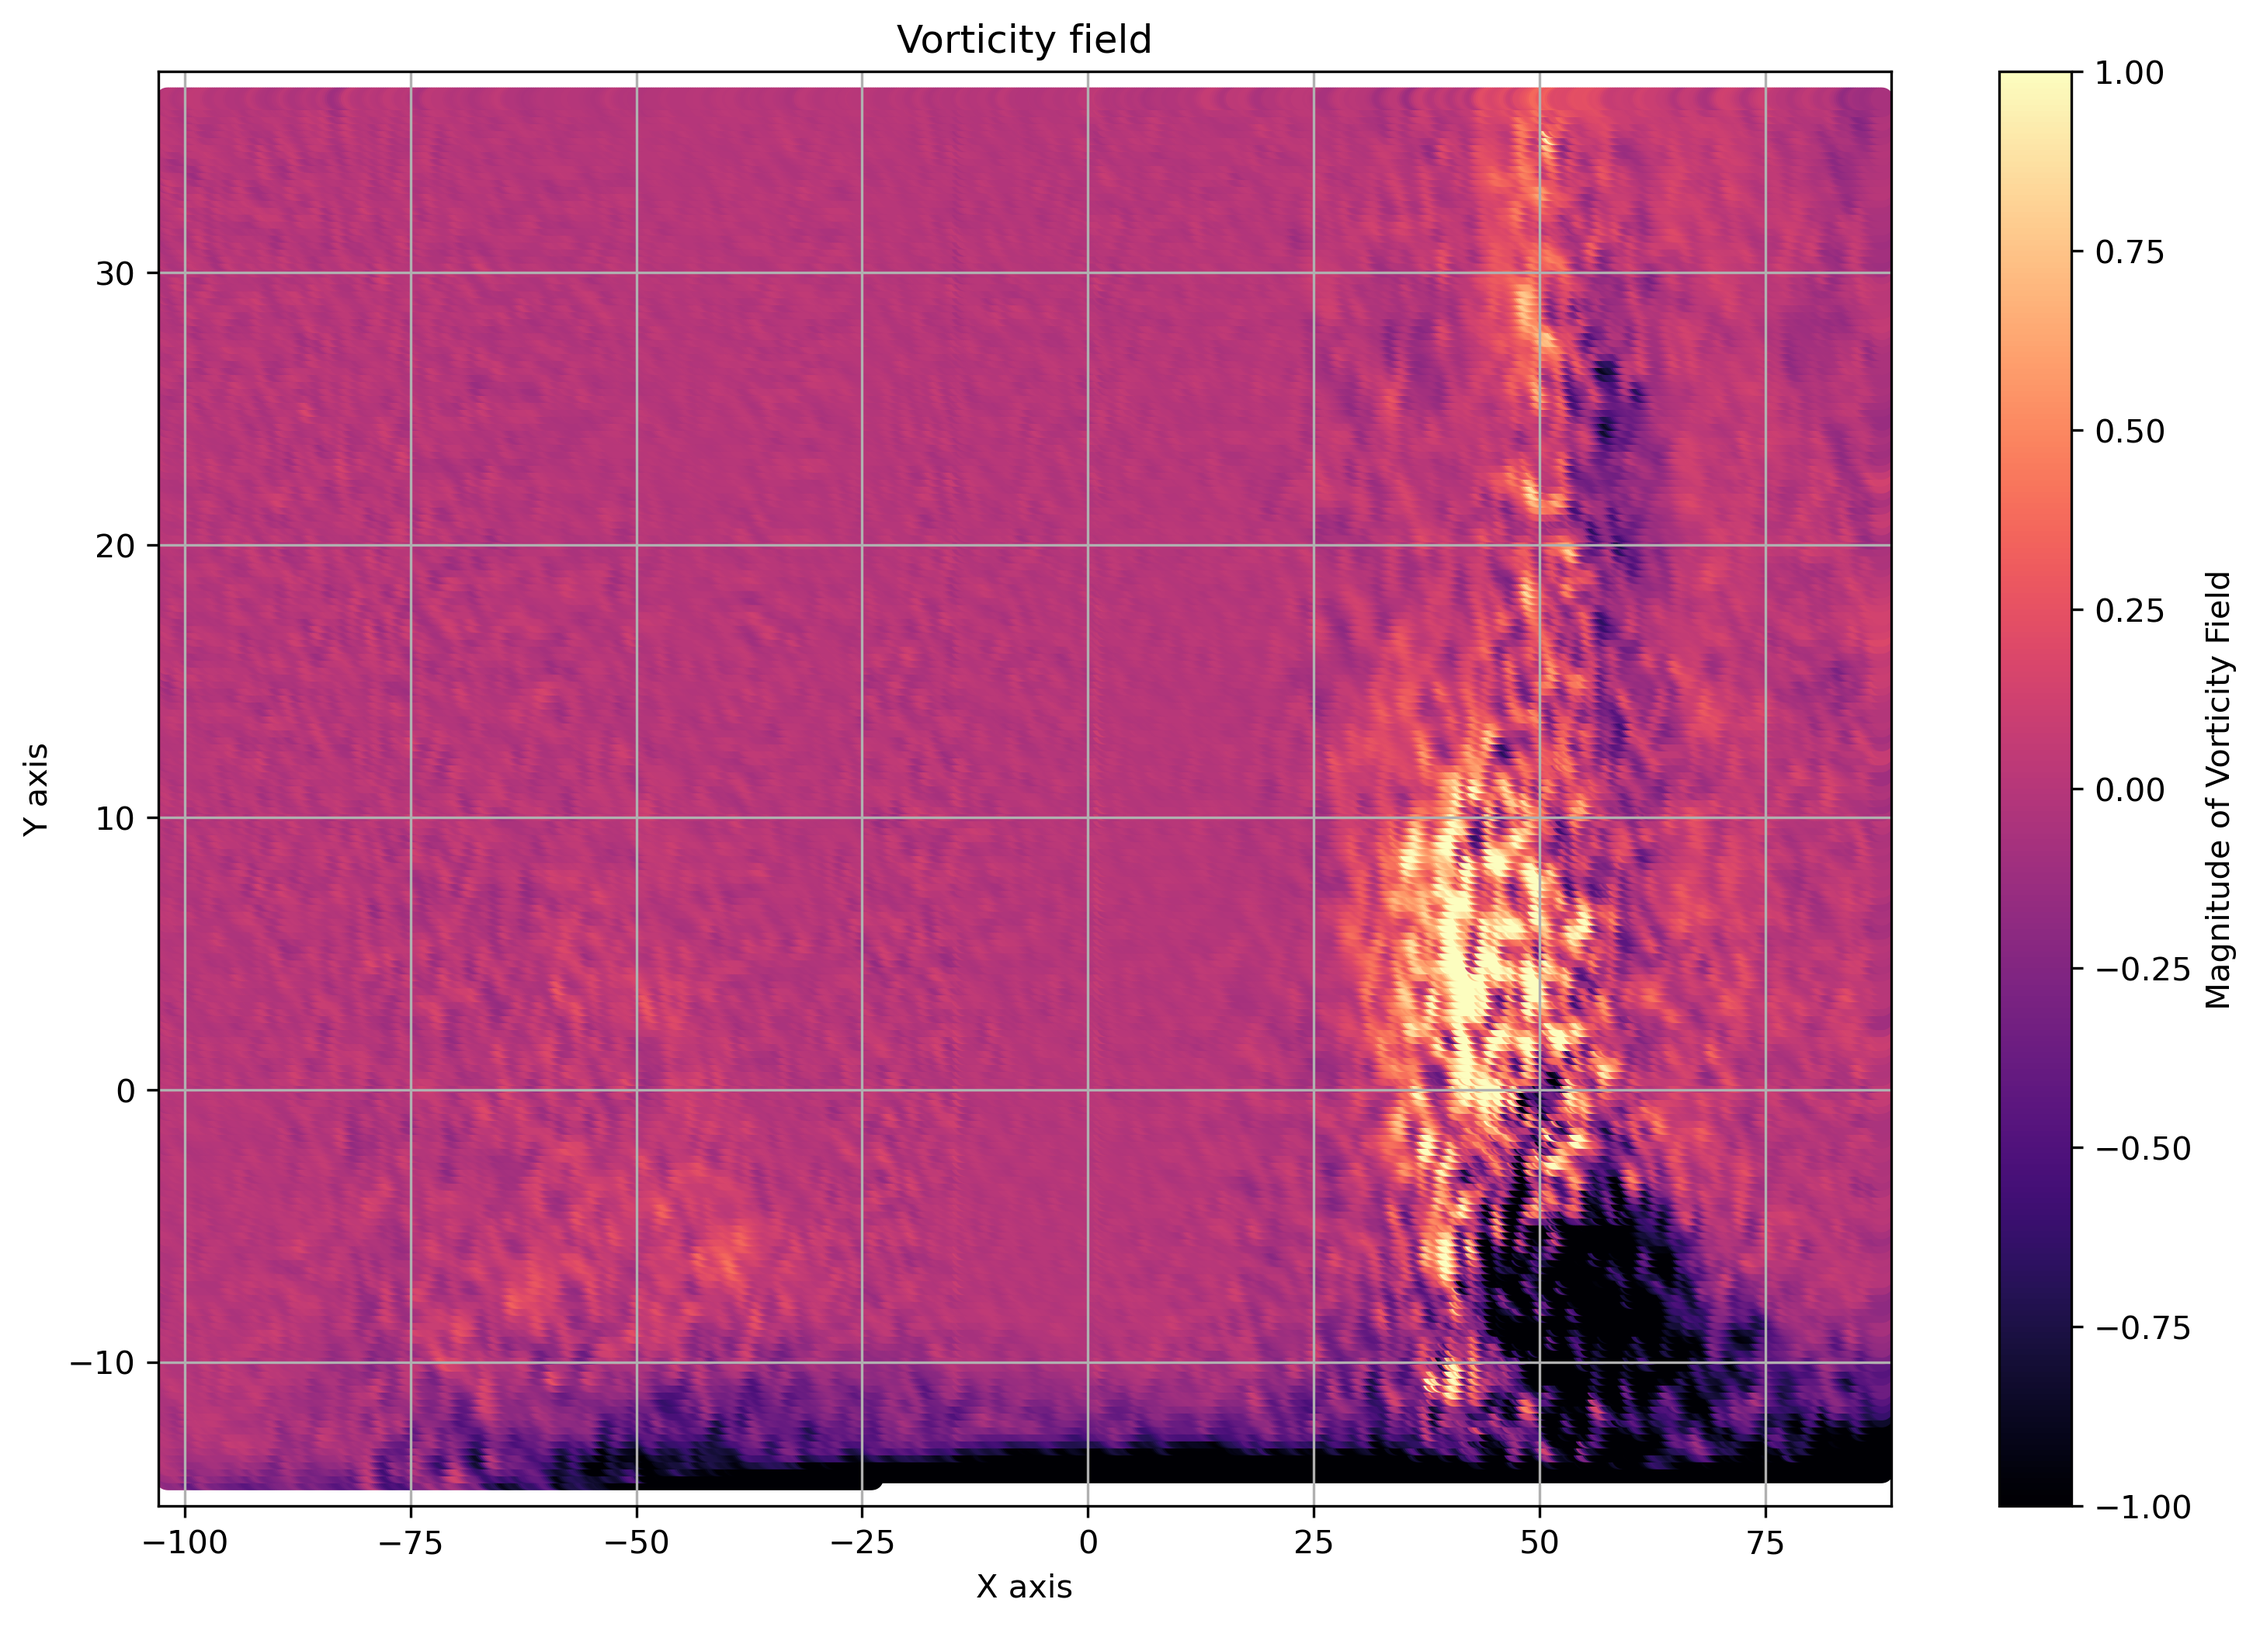
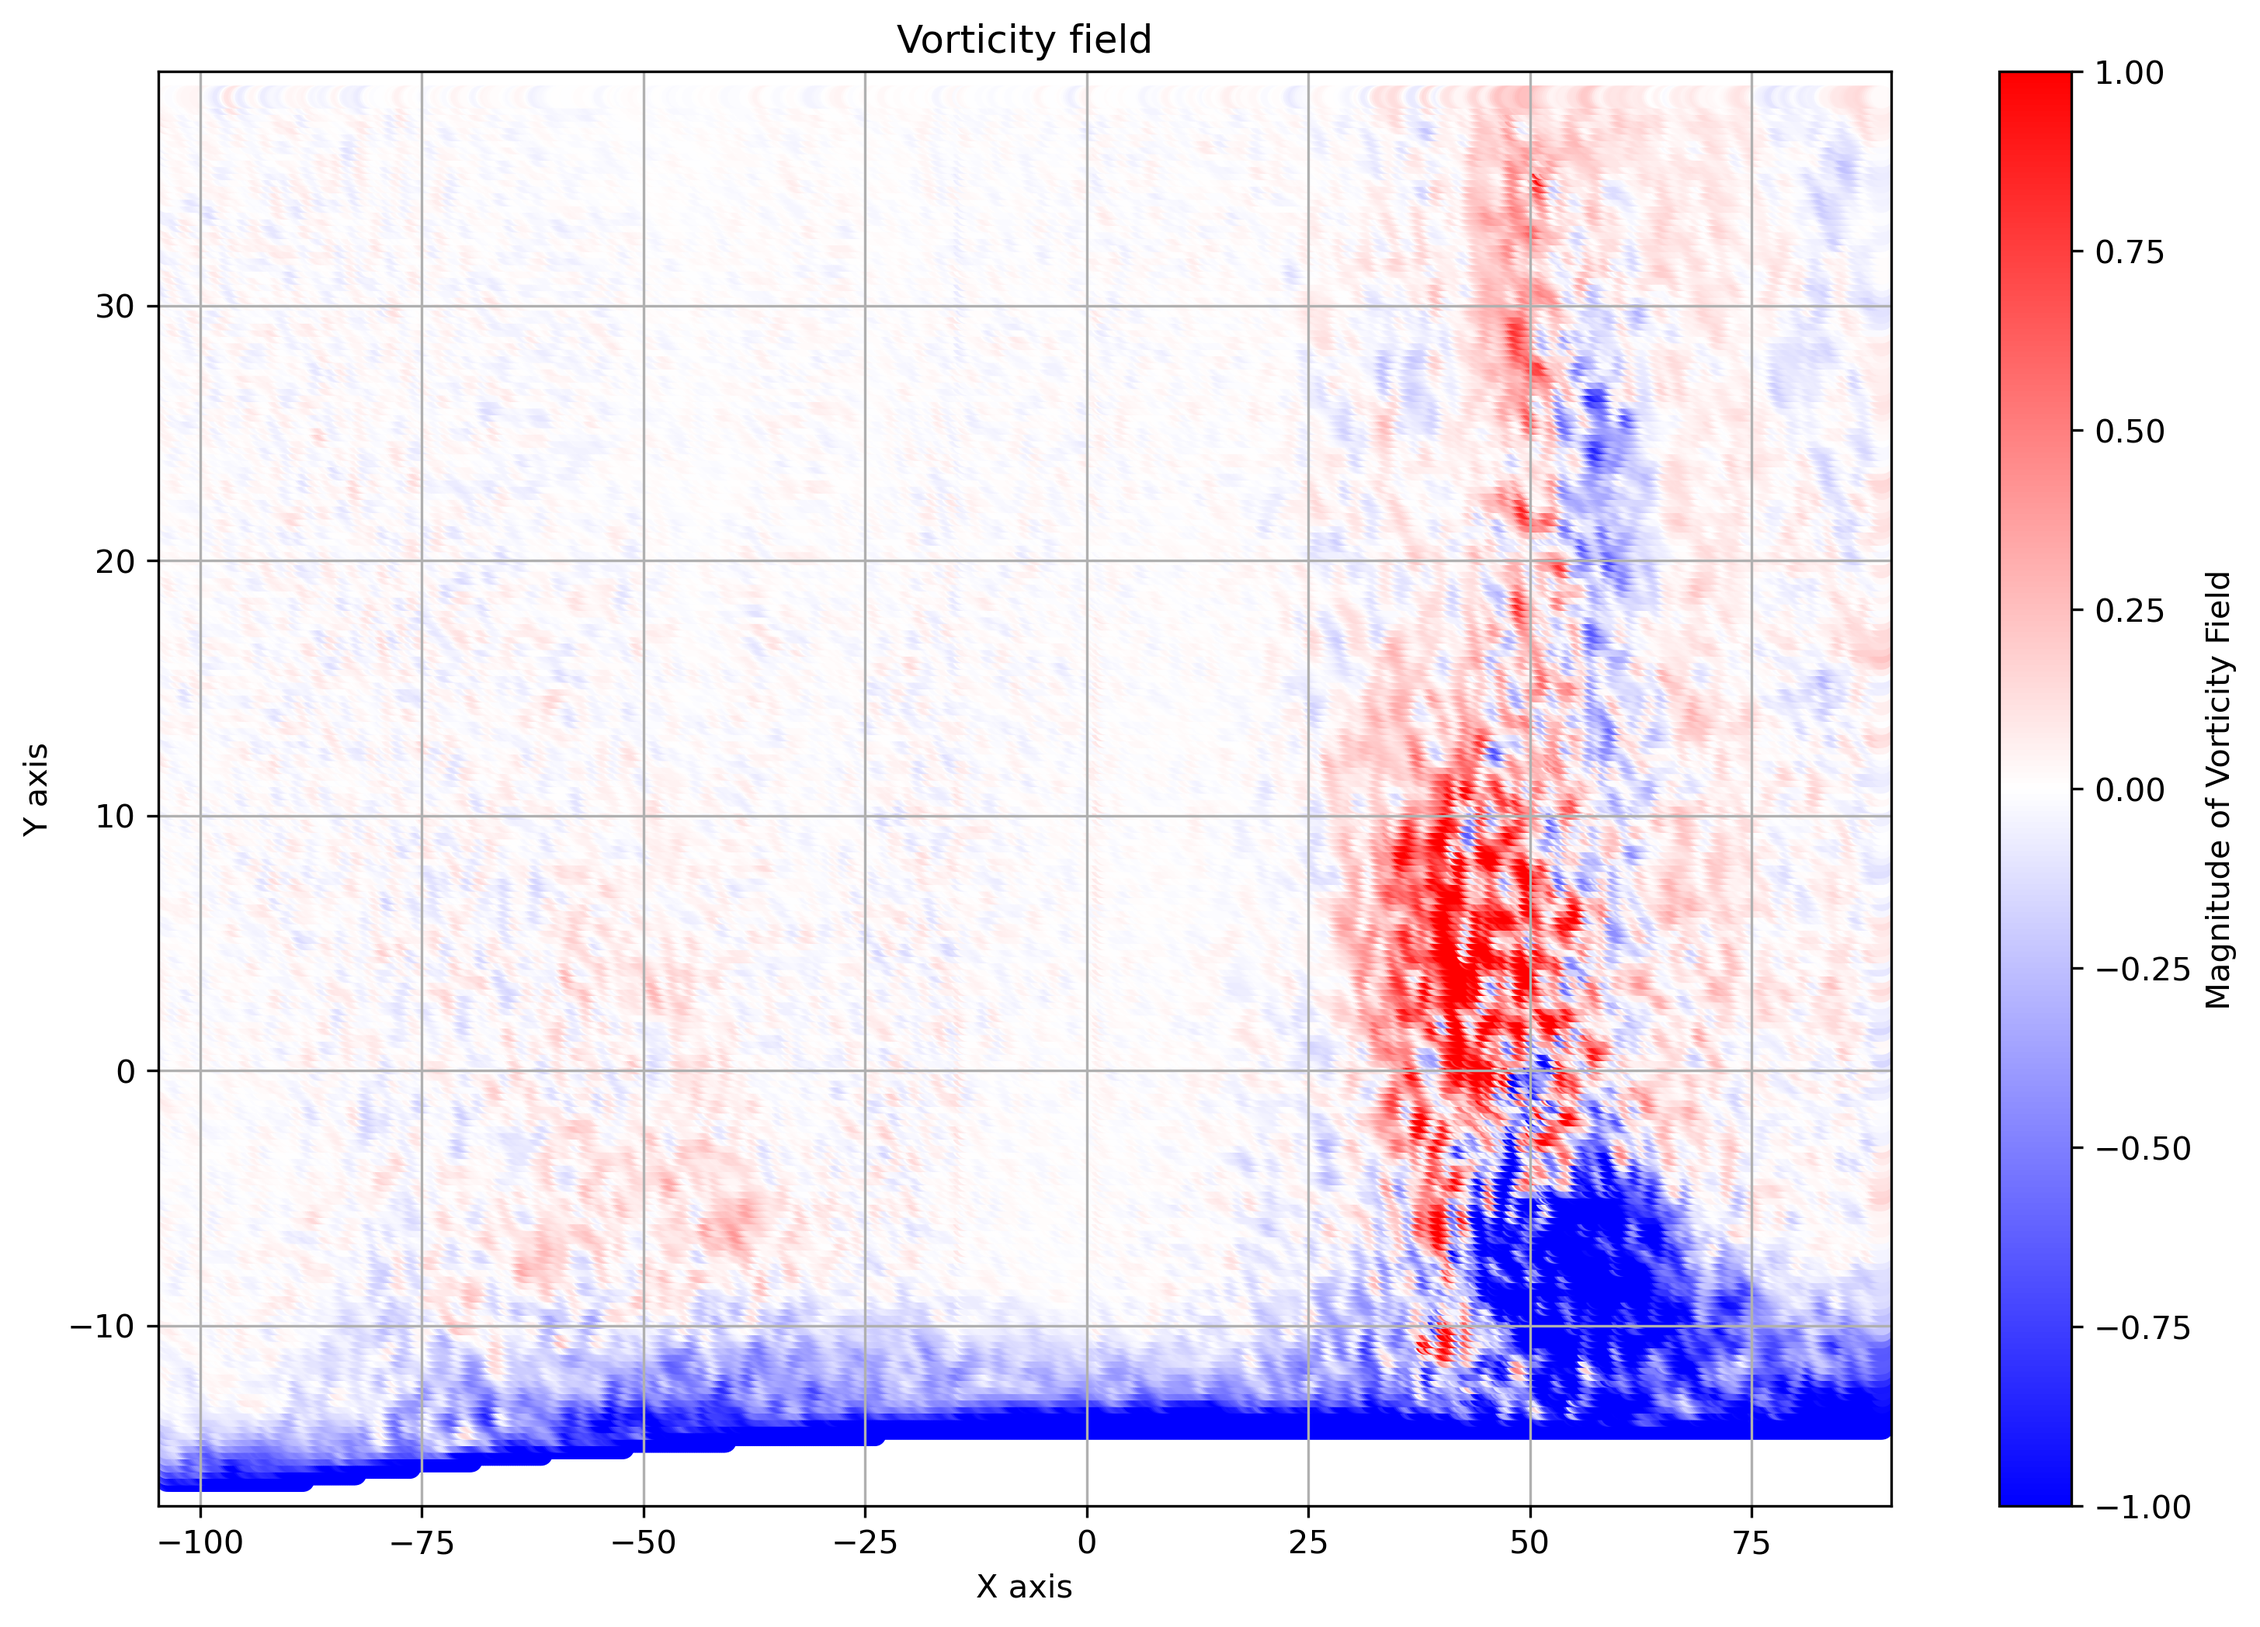
sync

diff --git a/main.py b/main.py
@@ -16,19 +16,19 @@ from Vorticity_image_gen import Vorticity_image, Velocity_fluctuations_image, Tu
 from interpolate import interpol
 
 
-Planes=['B']#Add C
+Planes=['C']#Add C
 
 for plane in Planes:
     print(plane)
-    for j in range(1,2): #ADD 0
+    for j in range(1,3): #ADD 0
         
-        #average_U_arr, average_V_arr = average_values(1, 4000, plane, j)
-        #print('ok')
+        average_U_arr, average_V_arr = average_values(1, 2500, plane, j)
+        print('ok')
          
-       # average_U_arr, average_V_arr=interpol(average_U_arr, average_V_arr)
+        
             
         
-        #time_average_image(average_U_arr, average_V_arr, plane, j)
+        time_average_image(average_U_arr, average_V_arr, plane, j)
        
         if j==0:
             print('no bins')
@@ -36,18 +36,18 @@ for plane in Planes:
         
           
         else:
-            for i in range(1, 37):
+            for i in range(1,2):
                 
                 
                 print('bin', i)
                 error, u_magnitudes, v_magnitudes = bin_average_velocities(i, plane, j)
                 if error==0:
                     break
-                #Velocity_fluctuations_image(u_magnitudes, v_magnitudes, average_U_arr, average_V_arr, plane, j, i)
-                # Turbulent kinetic energy
-                #Turbulent_kinetic_energy(plane, j, i)
+                Velocity_fluctuations_image(u_magnitudes, v_magnitudes, average_U_arr, average_V_arr, plane, j, i)
+                #Turbulent kinetic energy
+                Turbulent_kinetic_energy(plane, j, i)
                 #vector fields
-                #bin_average_vector_field_image(i, plane, j)
+                bin_average_vector_field_image(i, plane, j)
 
                 # Obtain the flow properties for bin averaged flow fields and plot the flow properties / Visualize
                 Vorticity_image(u_magnitudes, v_magnitudes, plane, j, i)

diff --git a/Vorticity_image_gen.py b/Vorticity_image_gen.py
@@ -31,7 +31,7 @@ def Vorticity_image(u_magnitudes, v_magnitudes, plane, J_number, bin):
 
     # Create scatter plot
     # Define colormap from dark blue to bright red
-    cmap = plt.colormaps.get_cmap('magma')
+    cmap = plt.colormaps.get_cmap('bwr')
 
     # Normalize magnitudes to range from 0 to 1
     norm = Normalize(-1, 1)

diff --git a/averagefunction.py b/averagefunction.py
@@ -167,7 +167,7 @@ def time_average_image(average_U_arr, average_V_arr, plane, J_number):
    
     
     
-    positions=interpolpos(positions)
+    
         
     x_positions = positions[:, 0]
     y_positions = positions[:, 1]    
